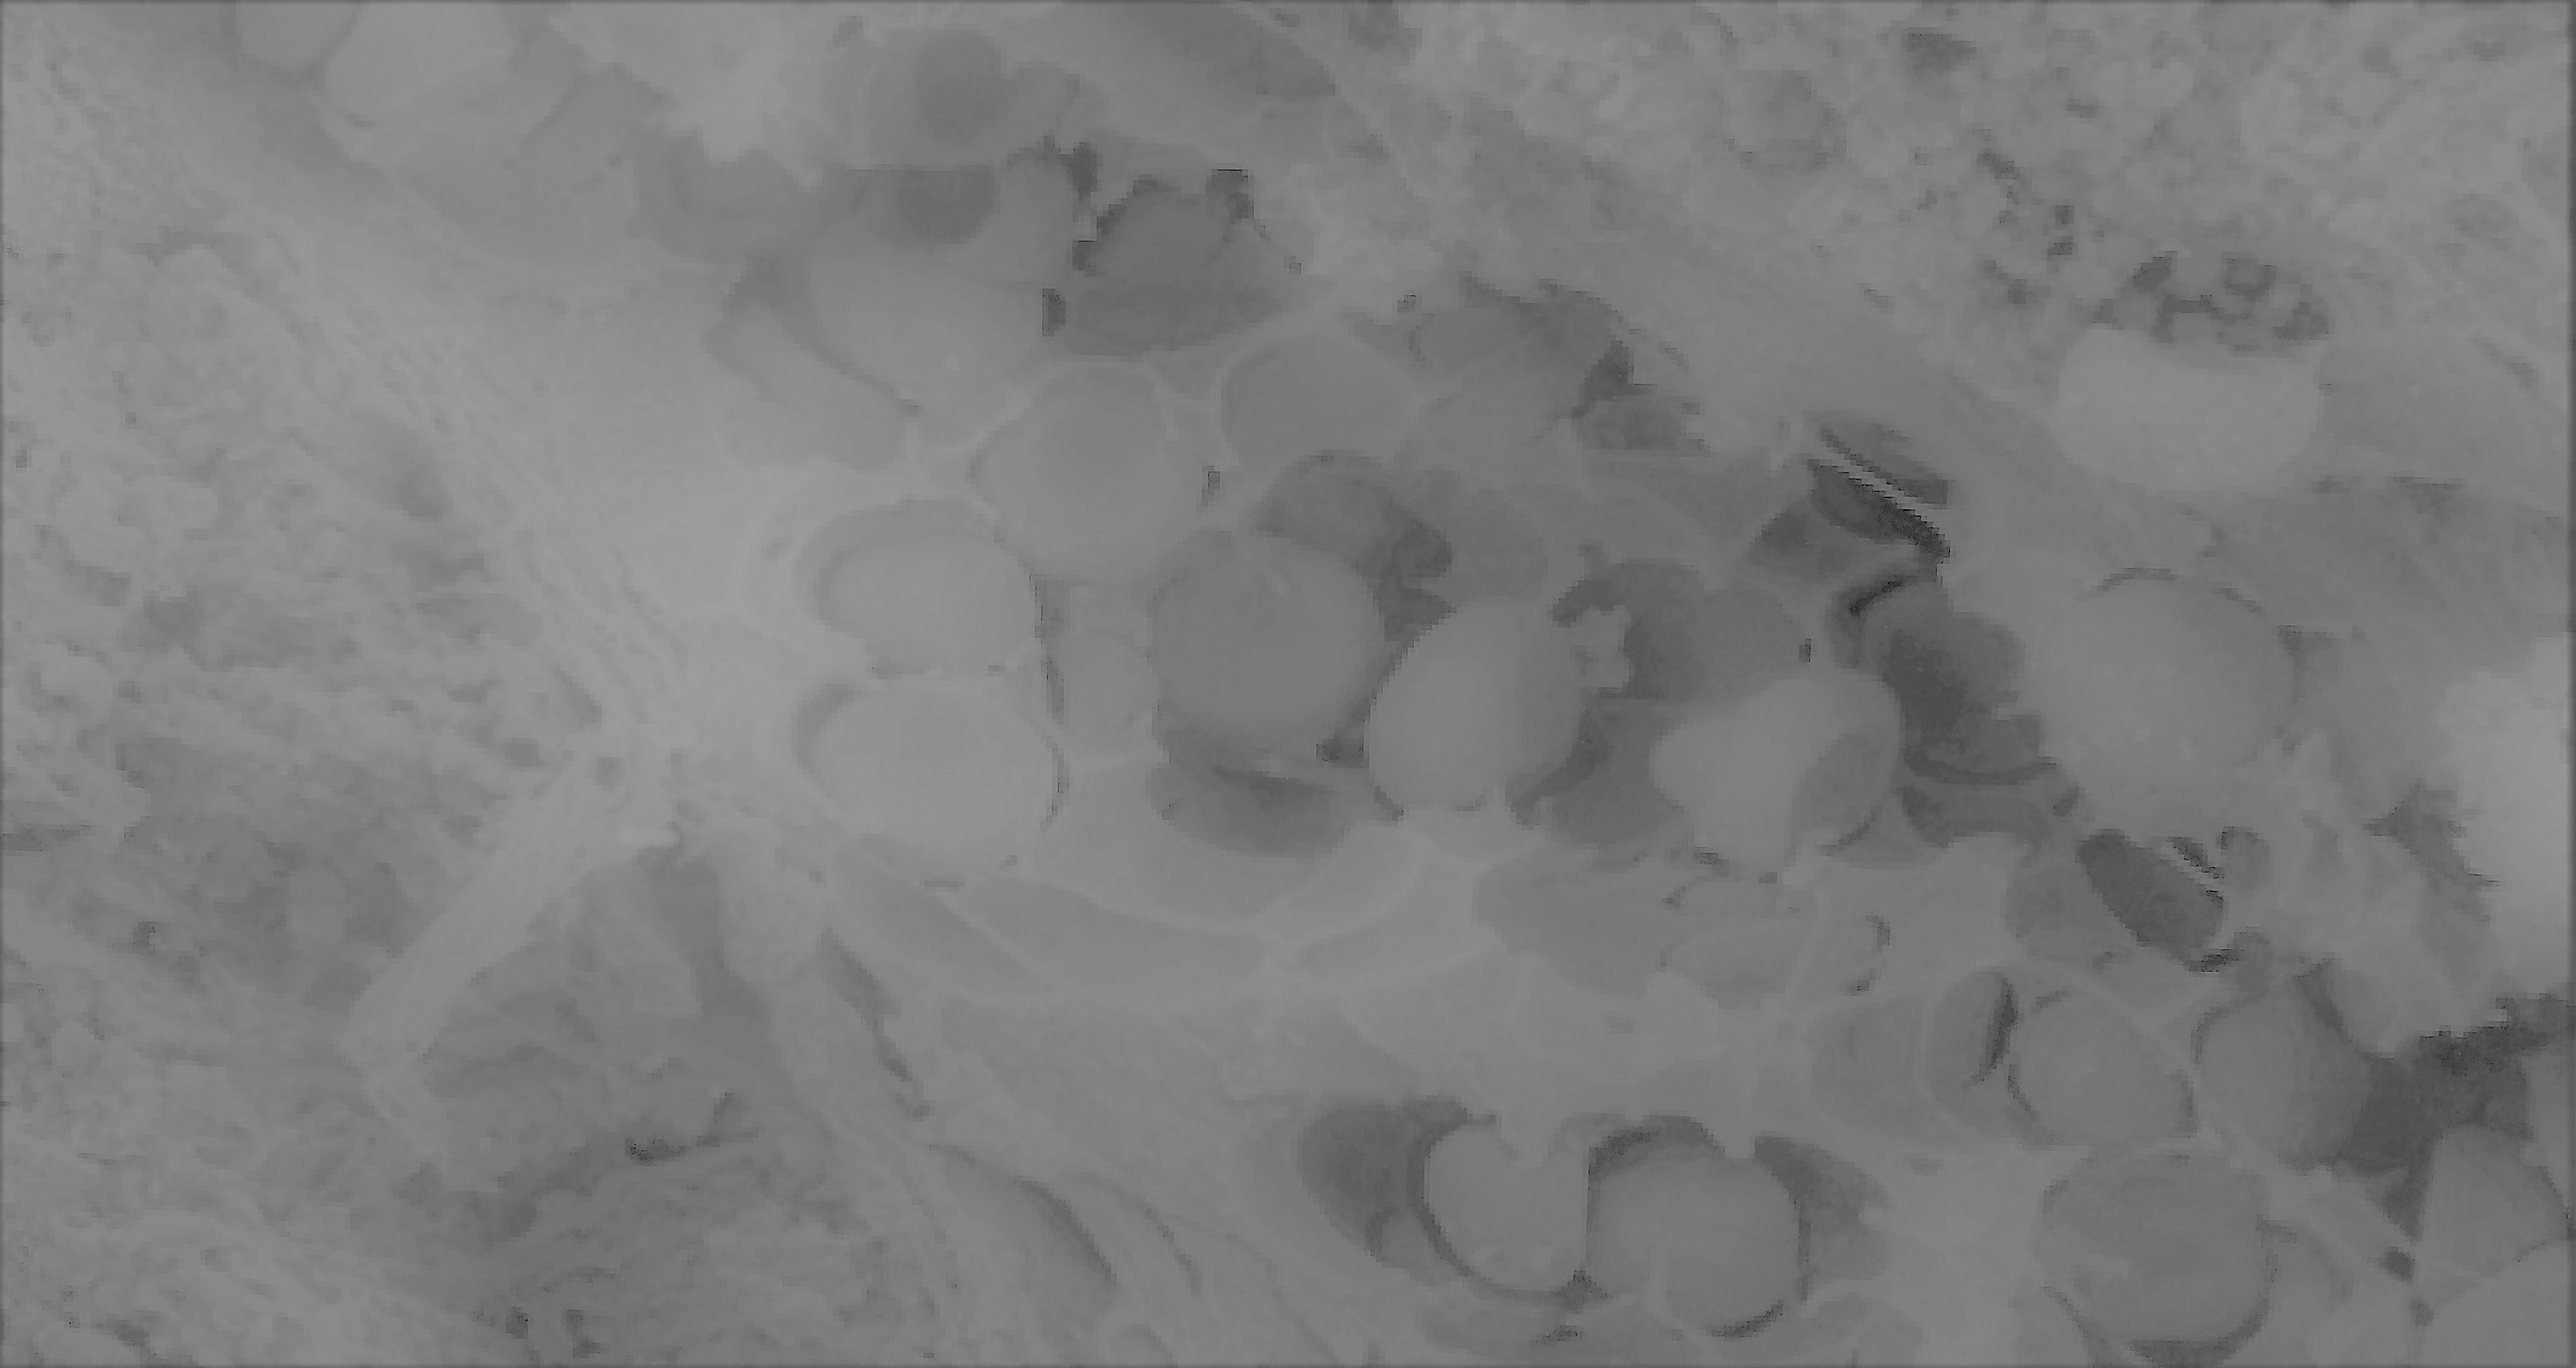
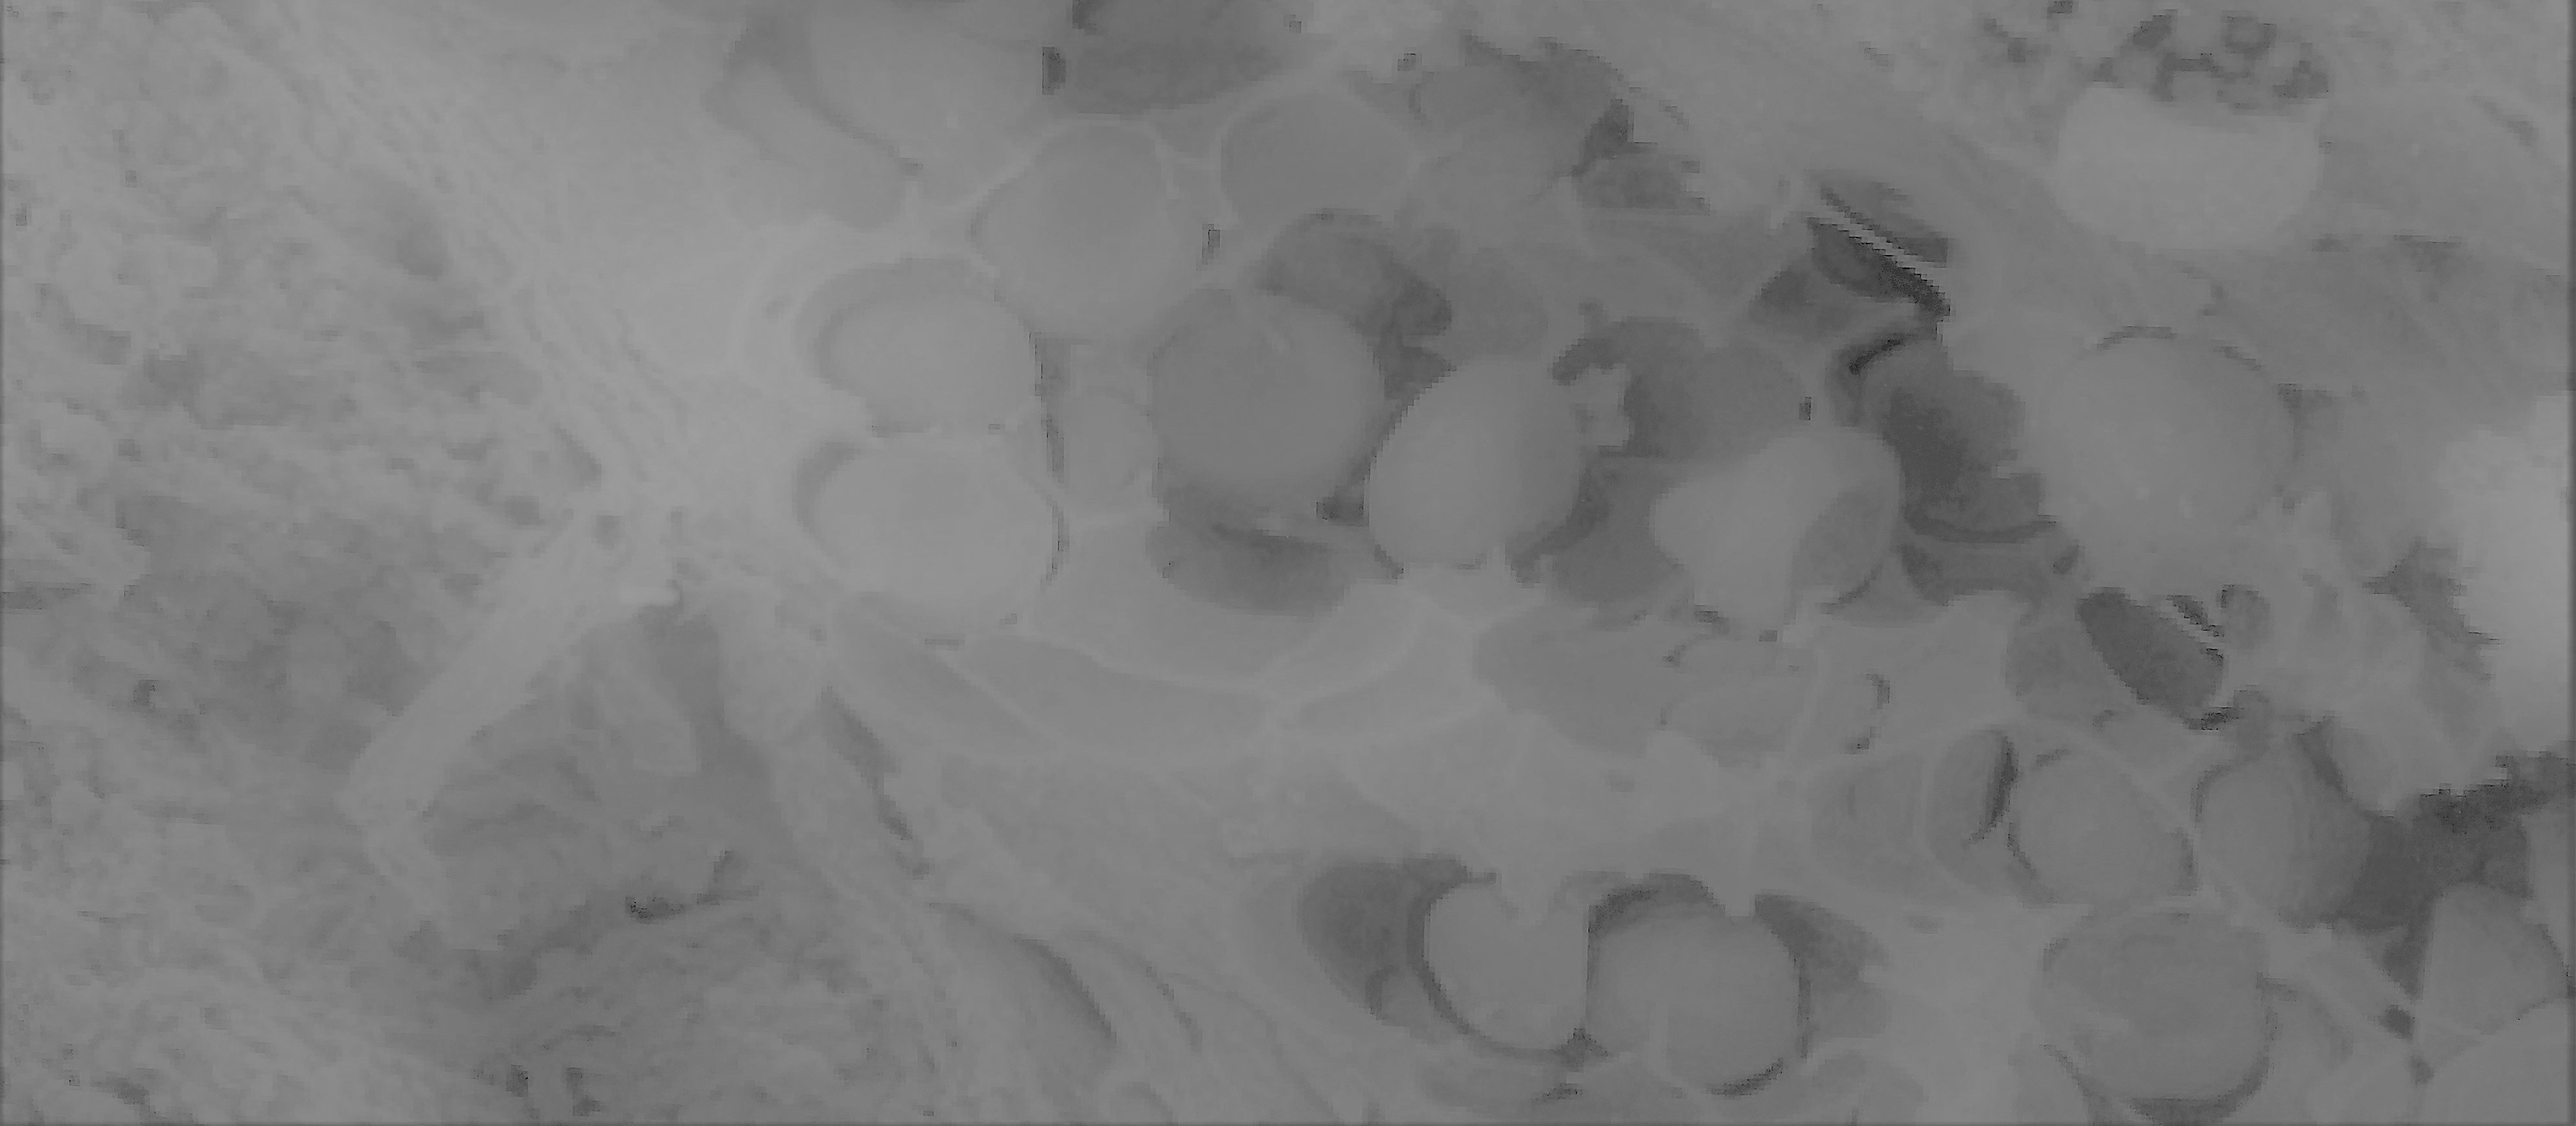
Style updates on landing page

diff --git a/templates/home.html b/templates/home.html
@@ -25,7 +25,7 @@
     
     <div class="row mx-5 px-3 mt-3">
         <div class="col-lg-6 col-sm-12">
-            <div class="mr-lg-5 pr-lg-5">
+            <div class="mr-lg-3 pr-lg-3">
                 <h3>Explore public scRNA-seq datasets</h3>
                 <ul class="list-inline">
                     Examples:
@@ -42,14 +42,14 @@
 
                 </div>
                 
-                <h3>Analyze your own dataset</h3>
+                <h3>Analyze your own scRNA-seq dataset</h3>
                 <p>Multiple formats for single cell expression data are supported by scAVI: plain text, HDF5 (h5), and sparse matrix (mtx).</p>
                 <a href="upload" class="btn btn-info">Get Started</a>
             </div>
         </div>
         
         <div class="col-lg-6 col-sm-12">
-            <div class="ml-lg-5 pl-lg-5">
+            <div class="ml-lg-3 pl-lg-3">
 
                 <div id="carouselExampleIndicators" class="carousel slide" data-ride="carousel">
                     <ol class="carousel-indicators">
@@ -68,7 +68,7 @@
                             {% else %}
                                 <div class="carousel-item">
                             {% endif %}
-                                    <img src="img/tool/{{tool['tool_string']}}-example.png" class="d-block w-100">
+                                    <img src="img/tool/{{tool['tool_string']}}-example.png" class="d-block">
                                     <div class="carousel-caption d-none d-md-block">
                                         <h5>{{tool['tool_name']}}</h5>
                                         <p>{{tool['tool_description']}}</p>

diff --git a/static/css/main.css b/static/css/main.css
@@ -287,7 +287,7 @@ https://github.com/minhur/bootstrap-toggle/issues/186
   background-color: transparent;
 }
 .jumbotron-wrapper {
-  background: linear-gradient(rgba(255,255,255,.6), rgba(255,255,255,.6)), url(../images/scAVI_jumbotron.jpg);
+  background: linear-gradient(rgba(255,255,255,.2), rgba(255,255,255,.2)), url(../images/scAVI_jumbotron.jpg) no-repeat center;
   background-size: cover;
 }
 
@@ -346,7 +346,9 @@ iframe.embed-responsive-item {
 }
 .carousel-item img {
   height: 350px;
-  max-height: 350px;  
+  max-height: 350px;
+  margin-left: auto;
+  margin-right: auto;
 }
 .carousel-caption {
   color: #000;

diff --git a/templates/partial/header.html b/templates/partial/header.html
@@ -21,7 +21,7 @@
       </ul>
       <form class="form-inline my-2 my-lg-0">
         <a class="btn btn-info mr-1" href="upload">
-          Upload Dataset
+          Upload Your Dataset
         </a>
         <a href="{{url_for('all_datasets')}}" class="btn btn-info ml-1">
           Browse GEO Studies
